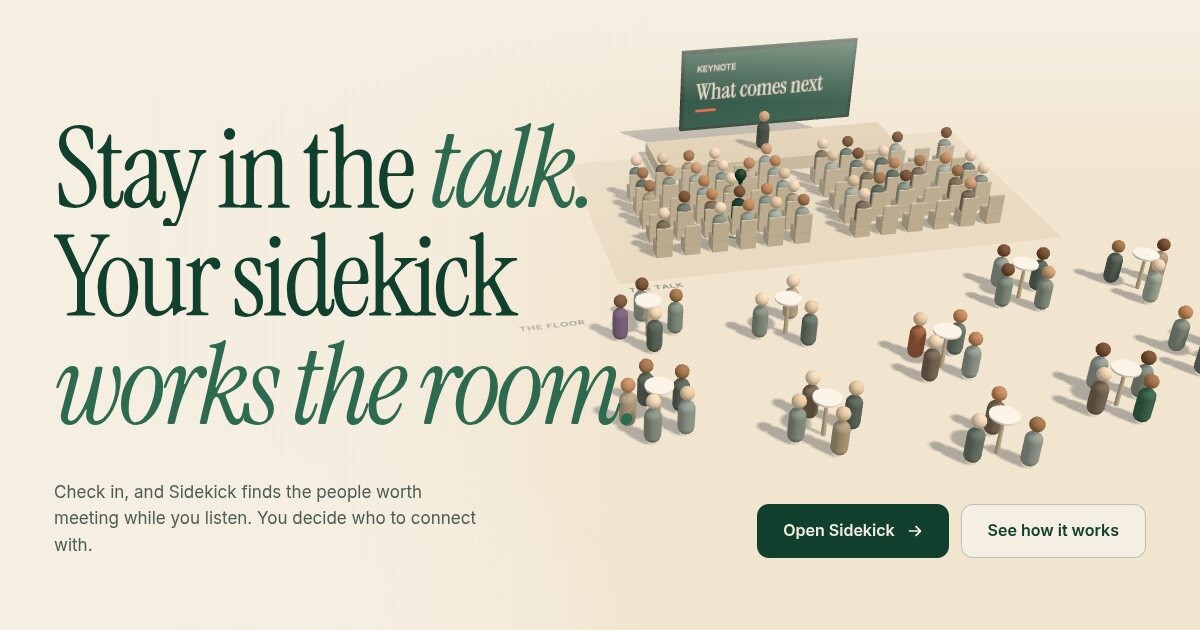
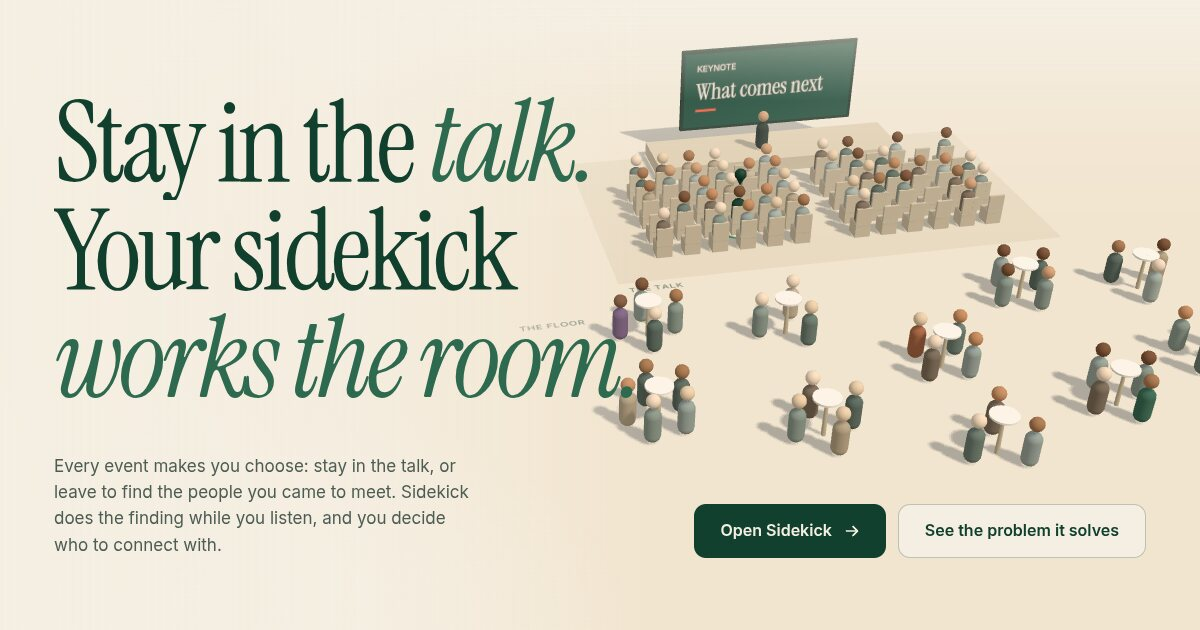
getsidekick: lead with the problem, then how Sidekick fixes it
The page opened on the solution and never said what it solves. Now:

- The hero's line names the problem first: every event makes you
  choose between the talk and the people you came to meet; Sidekick
  does the finding while you listen. The second button reads "See
  the problem it solves".
- The scroll story gains a first step, "Every event makes you
  choose", shown in the room: you in the talk thinking "Who out there
  should I actually meet?" while question marks pop up over people on
  the floor.
- The four steps that follow are labelled "How Sidekick fixes it, 1 to
  4 of 4" and worded against that problem: check in and keep your
  seat; everyone else brings a sidekick; the sidekicks find the fits;
  you just say yes or no.
- The share image is recaptured with the new line.

Changed region(s): [[0.0308, 0.1508, 0.5242, 0.6937], [0.0308, 0.7238, 0.4008, 0.8746], [0.555, 0.7841, 0.925, 0.9048]]

diff --git a/getsidekick/src/scripts/room.ts b/getsidekick/src/scripts/room.ts
@@ -3,7 +3,9 @@
 // Back half: the talk. A stage with a slide, a speaker, and rows of chairs. You sit in one.
 // Front half: the floor. People stand around cocktail tables, talking.
 //
-// The story is four actions, each happening in place while the camera holds still:
+// First the problem: you're stuck in the talk, the floor is full, and you can't tell who's worth
+// meeting (a question mark over people out there). Then four actions fix it, each in place while
+// the camera holds still:
 //   1. You check in. A ripple spreads from your seat and your sidekick (green Buddy) appears.
 //   2. Everyone else checks in. A grey Buddy appears beside each of them.
 //   3. The sidekicks talk. Yours talks to many of theirs at once; other pairs talk too.
@@ -59,6 +61,9 @@ export interface RoomLabels {
   pairs?: { mine: HTMLElement; theirs: HTMLElement }[];
   /** Step 3: grey pairs talking among themselves. */
   others?: HTMLElement[];
+  /** The problem: your thought, and a question mark over people on the floor. */
+  thought?: HTMLElement | null;
+  questions?: HTMLElement[];
 }
 
 // Story phases, in progress units. The page copy lines up with these.
@@ -443,6 +448,8 @@ export function createRoom(canvas: HTMLCanvasElement, labels: RoomLabels, opts: 
   // ---- Step 3: conversations -----------------------------------------------------------
   // Your sidekick doesn't travel: a green Buddy pops up beside each grey one it talks to, so it is
   // in several conversations at once (the three picks first). A few grey pairs talk too.
+  // Floor people who get a question mark in the problem step, spread over the room.
+  const questionAt = [firstOf(4) + 1, firstOf(6) + 2, firstOf(7) + 1, firstOf(9) + 1, firstOf(8), firstOf(5), firstOf(3) + 2, firstOf(1)];
   const yourTalks = [picks[0], picks[1], picks[2], firstOf(7), firstOf(8) + 1].slice(0, opts.small ? 3 : 5);
   const pairCandidates: [number, number][] = [
     [firstOf(1), firstOf(9)],
@@ -478,11 +485,11 @@ export function createRoom(canvas: HTMLCanvasElement, labels: RoomLabels, opts: 
   const camPos = new Vector3();
   const camLook = new Vector3();
   function cameraAt(p: number) {
-    const t = smooth(PHASES.checkin[0] - 0.02, PHASES.checkin[0] + 0.08, p);
+    const t = smooth(PHASES.problem[0] - 0.02, PHASES.problem[0] + 0.08, p);
     camPos.lerpVectors(shots.hero[0], shots.story[0], t);
     camLook.lerpVectors(shots.hero[1], shots.story[1], t);
     // A slow push in across the four steps, small enough to feel still.
-    const drift = smooth(PHASES.checkin[0], 1, p) * 0.06;
+    const drift = smooth(PHASES.problem[0], 1, p) * 0.06;
     camPos.lerp(camLook, drift);
   }
 
@@ -757,6 +764,20 @@ export function createRoom(canvas: HTMLCanvasElement, labels: RoomLabels, opts: 
     // ---- HTML over the scene ----
     // Step 1: you, and your sidekick's name tag.
     if (labels.you) labels.you.classList.toggle("is-checked", checkedIn > 0.5);
+    // The problem: your thought over your seat, and question marks popping up over people on the
+    // floor. They clear as you check in.
+    const [probA] = PHASES.problem;
+    const problem = smooth(probA, probA + 0.03, p) * (1 - smooth(PHASES.checkin[0], PHASES.checkin[0] + 0.03, p));
+    // On phones your seat is near the top of the screen, so the thought hangs below you instead.
+    labels.thought?.classList.toggle("bubble-below", opts.small);
+    place(labels.thought, tmp.set(you.x, opts.small ? 0.9 : 2.55, you.z), problem);
+    (labels.questions ?? []).forEach((el, k) => {
+      const idx = questionAt[k];
+      if (idx === undefined) return void (el.style.visibility = "hidden");
+      const shown = pop(probA + 0.02 + k * 0.012, p, 0.025) * problem;
+      const bob = Math.sin(time * 2 + k) * 0.05;
+      place(el, tmp.set(people[idx].x, 1.75 + bob, people[idx].z), Math.min(1, shown));
+    });
     place(labels.you, tmp.set(you.x, 2.15, you.z), smooth(PHASES.checkin[0], PHASES.checkin[0] + 0.04, p) * (1 - talking));
     place(labels.sidekick, tmp.copy(mineAt).setY(mineAt.y + 0.2), checkedIn * (1 - smooth(PHASES.arrive[0] + 0.04, PHASES.arrive[0] + 0.08, p)));
 

diff --git a/getsidekick/src/scripts/main.ts b/getsidekick/src/scripts/main.ts
@@ -42,6 +42,8 @@ async function loadRoom() {
         .map((mine, k) => ({ mine, theirs: qa("[data-pair-theirs]")[k] }))
         .slice(0, small ? 3 : 5),
       others: small ? [] : qa("[data-bubble-other]"),
+      thought: q("[data-thought]"),
+      questions: qa("[data-question]").slice(0, small ? 5 : 8),
     },
     { small, tier },
   );
@@ -100,7 +102,7 @@ let jumpToStep: (step: number) => void = () => {};
 
 
 // ---- The story ------------------------------------------------------------------------
-const steps = [PHASES.checkin, PHASES.arrive, PHASES.talk, PHASES.outcome];
+const steps = [PHASES.problem, PHASES.checkin, PHASES.arrive, PHASES.talk, PHASES.outcome];
 const storyRange = () => story.offsetHeight - innerHeight;
 // Where to land for a step: a little past its start, so its copy is fully in.
 const stepY = (i: number) => story.offsetTop + storyRange() * (steps[i][0] + (steps[i][1] - steps[i][0]) * 0.45);

diff --git a/getsidekick/src/styles/site.css b/getsidekick/src/styles/site.css
@@ -462,6 +462,9 @@ h1 em {
 .chapter-n span {
   color: var(--ink-2);
 }
+.chapter-n.is-problem {
+  color: var(--ink-2);
+}
 .chapter h2 {
   margin-top: 14px;
   font-family: var(--display);
@@ -2329,6 +2332,28 @@ html.motion h2[data-reveal] > div {
 }
 .bubble-mine .bubble-dots b {
   background: #fbf9f4;
+}
+/* The problem step: your thought, and a question mark over people on the floor. */
+.bubble-think .bubble-in {
+  max-width: 230px;
+  border-radius: 16px 16px 16px 5px;
+}
+.bubble-below .bubble-in {
+  bottom: auto;
+  top: 10px;
+  border-radius: 5px 16px 16px 16px;
+}
+.bubble-q .bubble-in {
+  display: grid;
+  place-items: center;
+  width: 30px;
+  height: 30px;
+  padding: 0;
+  border-radius: 50%;
+  font-family: var(--display);
+  font-size: 20px;
+  line-height: 1;
+  color: var(--signal-deep);
 }
 /* Other pairs talking among themselves: smaller, grey, no name. */
 .bubble-other .bubble-in {

diff --git a/getsidekick/src/scripts/phases.ts b/getsidekick/src/scripts/phases.ts
@@ -1,11 +1,12 @@
 // Story phases, in scroll-progress units (0 to 1). Shared by the page copy and the 3D room, and
 // kept in their own module so the page can read them without loading Three.js.
-// Each step is one action: you check in, everyone else checks in, the sidekicks talk, and the
-// conversations end in a match or a pass.
+// The story is the problem, then four steps that fix it: you check in, everyone else checks in,
+// the sidekicks talk, and the conversations end in a match or a pass.
 export const PHASES = {
-  hero: [0, 0.12],
-  checkin: [0.12, 0.32],
-  arrive: [0.32, 0.54],
-  talk: [0.54, 0.77],
-  outcome: [0.77, 1],
+  hero: [0, 0.1],
+  problem: [0.1, 0.27],
+  checkin: [0.27, 0.43],
+  arrive: [0.43, 0.59],
+  talk: [0.59, 0.79],
+  outcome: [0.79, 1],
 } as const;

diff --git a/getsidekick/README.md b/getsidekick/README.md
@@ -2,7 +2,7 @@
 
 Sidekick's landing page, built with Astro. One page:
 
-- **The room** (`src/scripts/room.ts`): a small 3D model of an event, the talk at the back and the floor in front. The scroll story is four actions in place, with the camera holding still: you check in (a ripple, and your green Buddy appears beside you); everyone else checks in (a grey Buddy pops up beside each); the sidekicks talk (a green Buddy appears beside each grey one it talks to, with two-way chat bubbles running at once, and grey pairs chat too); and match or pass, played on the app's swipe deck (Mei passed, Aisha waiting, Daniel a match with confetti). Green is always yours, grey everyone else's. Buddy is built in `buddy3d.ts` from the logo's proportions.
+- **The room** (`src/scripts/room.ts`): a small 3D model of an event, the talk at the back and the floor in front. The scroll story opens with the problem (you're stuck in the talk; question marks over the people on the floor), then four actions in place that fix it, with the camera holding still: you check in (a ripple, and your green Buddy appears beside you); everyone else checks in (a grey Buddy pops up beside each); the sidekicks talk (a green Buddy appears beside each grey one it talks to, with two-way chat bubbles running at once, and grey pairs chat too); and match or pass, played on the app's swipe deck (Mei passed, Aisha waiting, Daniel a match with confetti). Green is always yours, grey everyone else's. Buddy is built in `buddy3d.ts` from the logo's proportions.
 - **Try a card**: a working demo of the swipe card and the sidekicks' conversation, using the demo-event people from the app's dev seed.
 - **Privacy**: the same app screens on two phones, for pass, connect and both connect.
 - **For organisers**: the app's "Bring the room in" sheet beside the three steps to fill a room; the button opens the app's add-event screen (`/new`).
